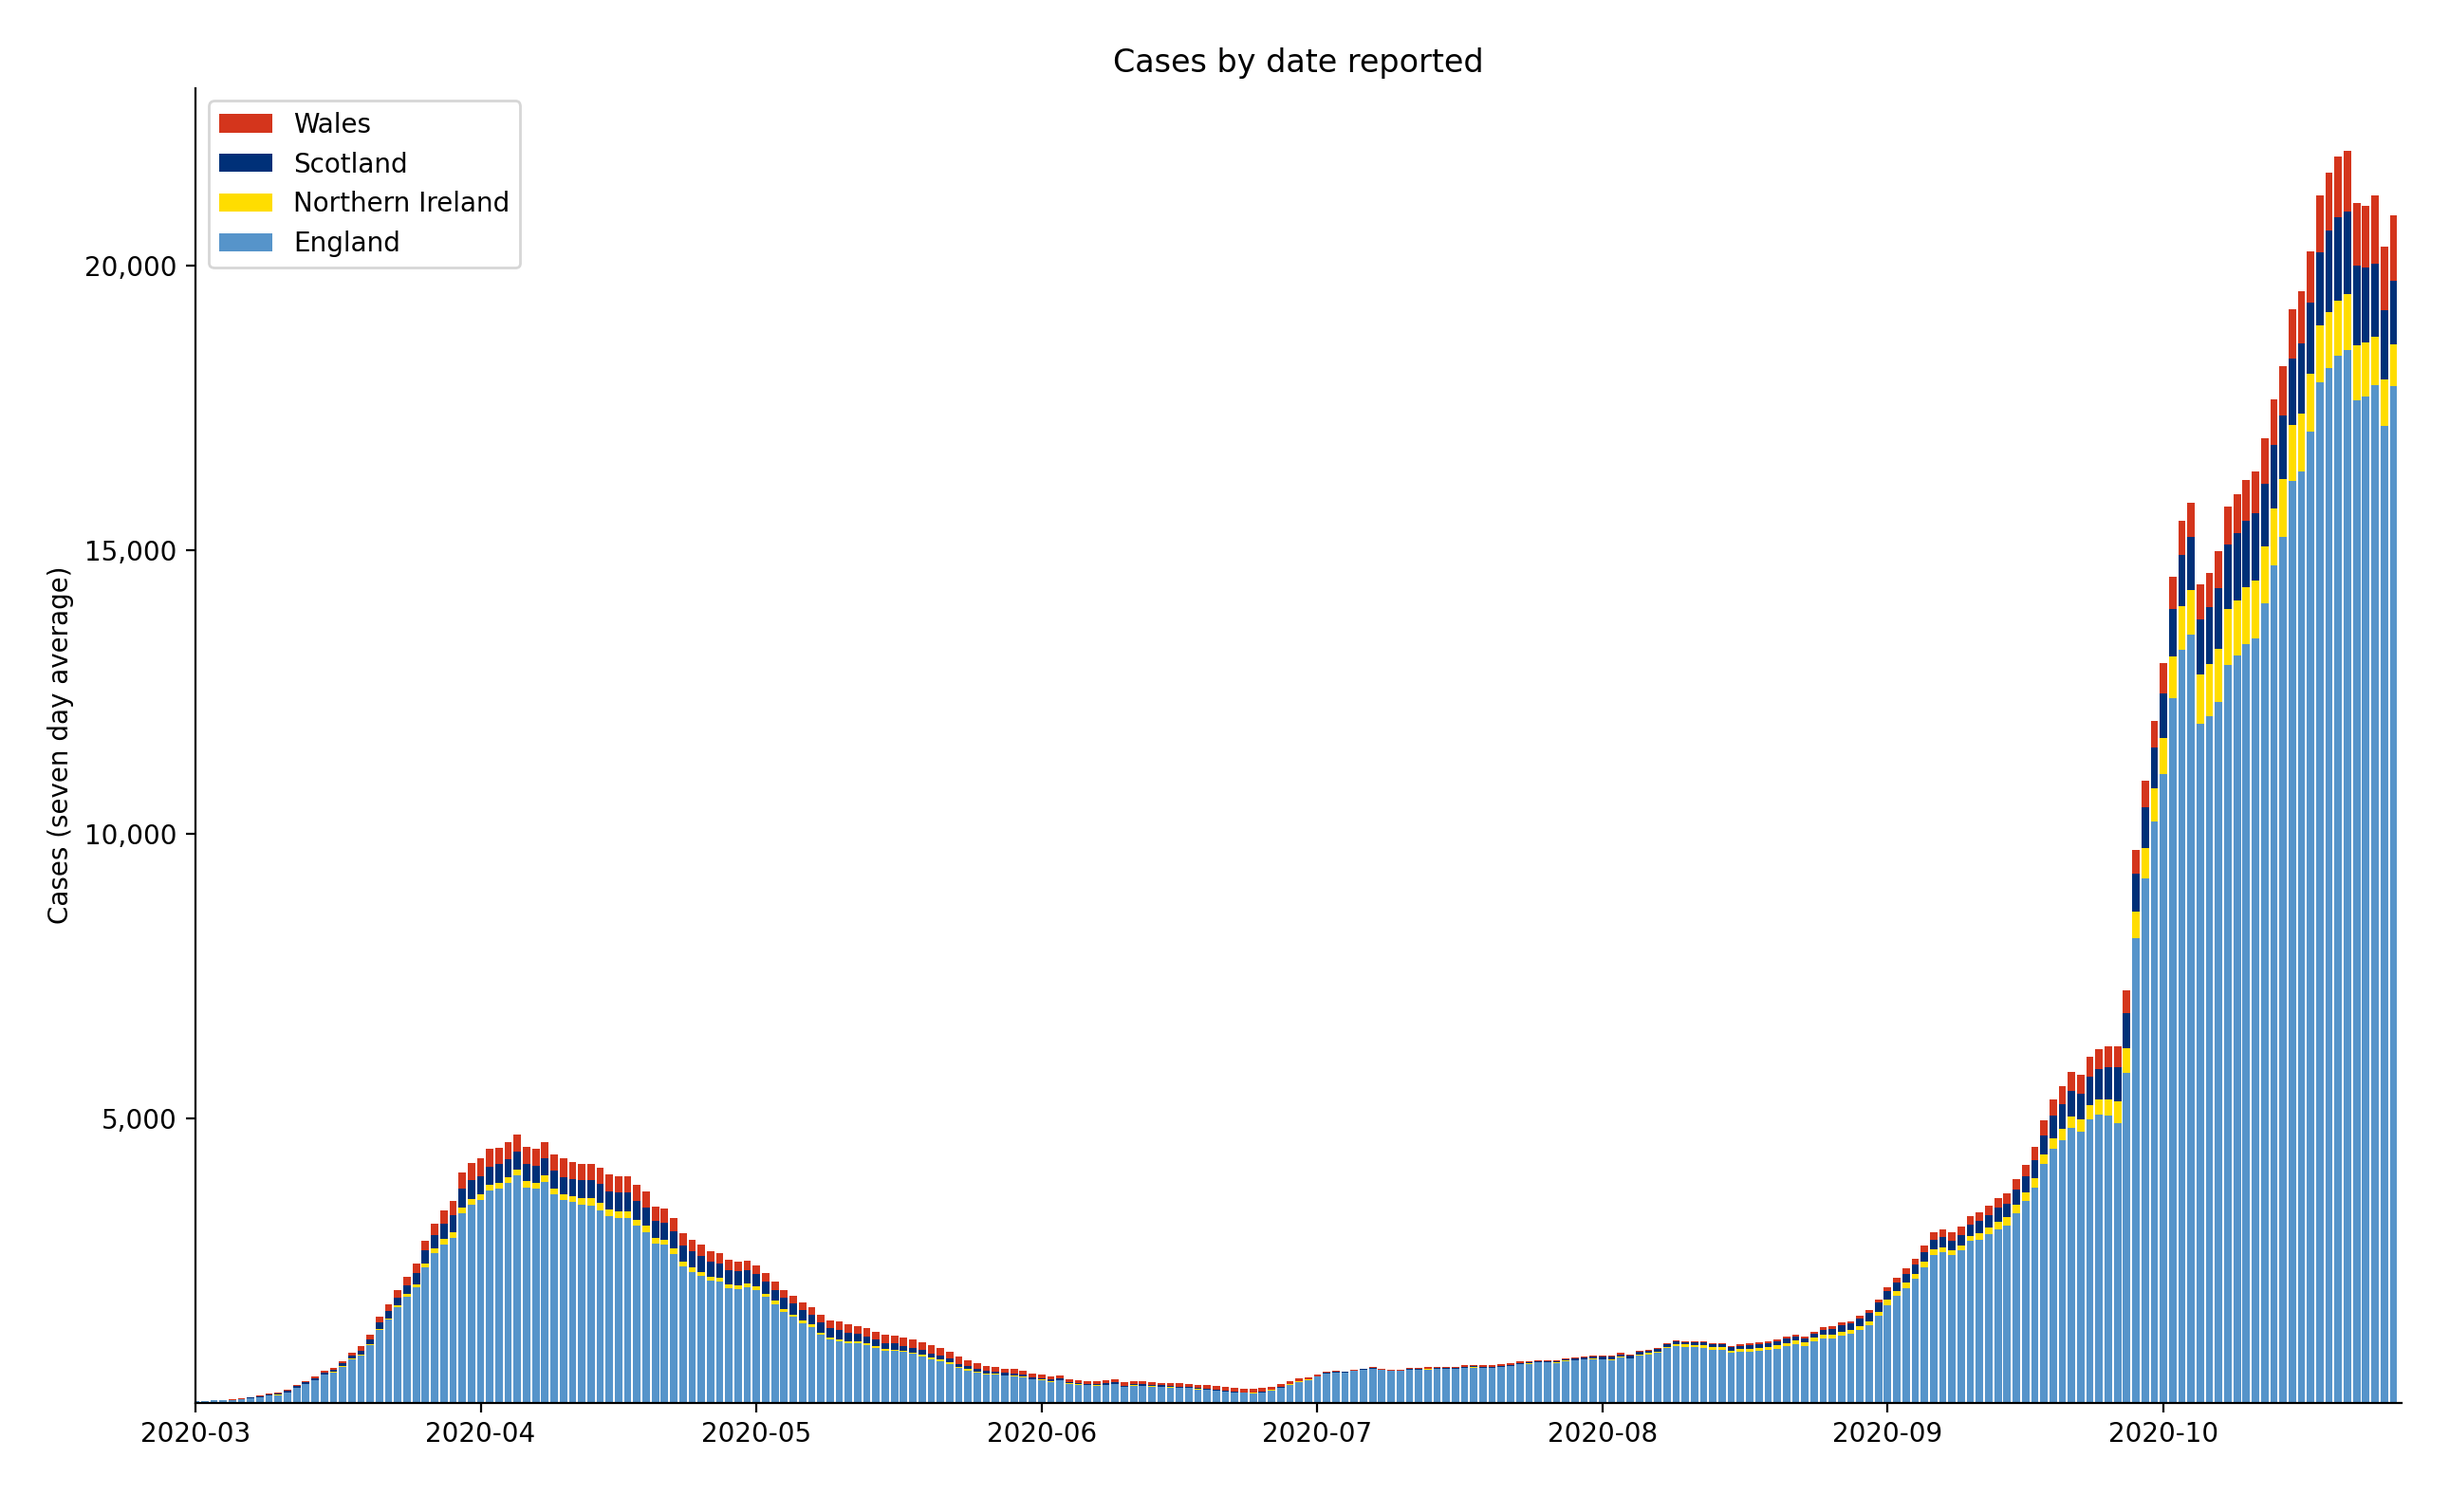
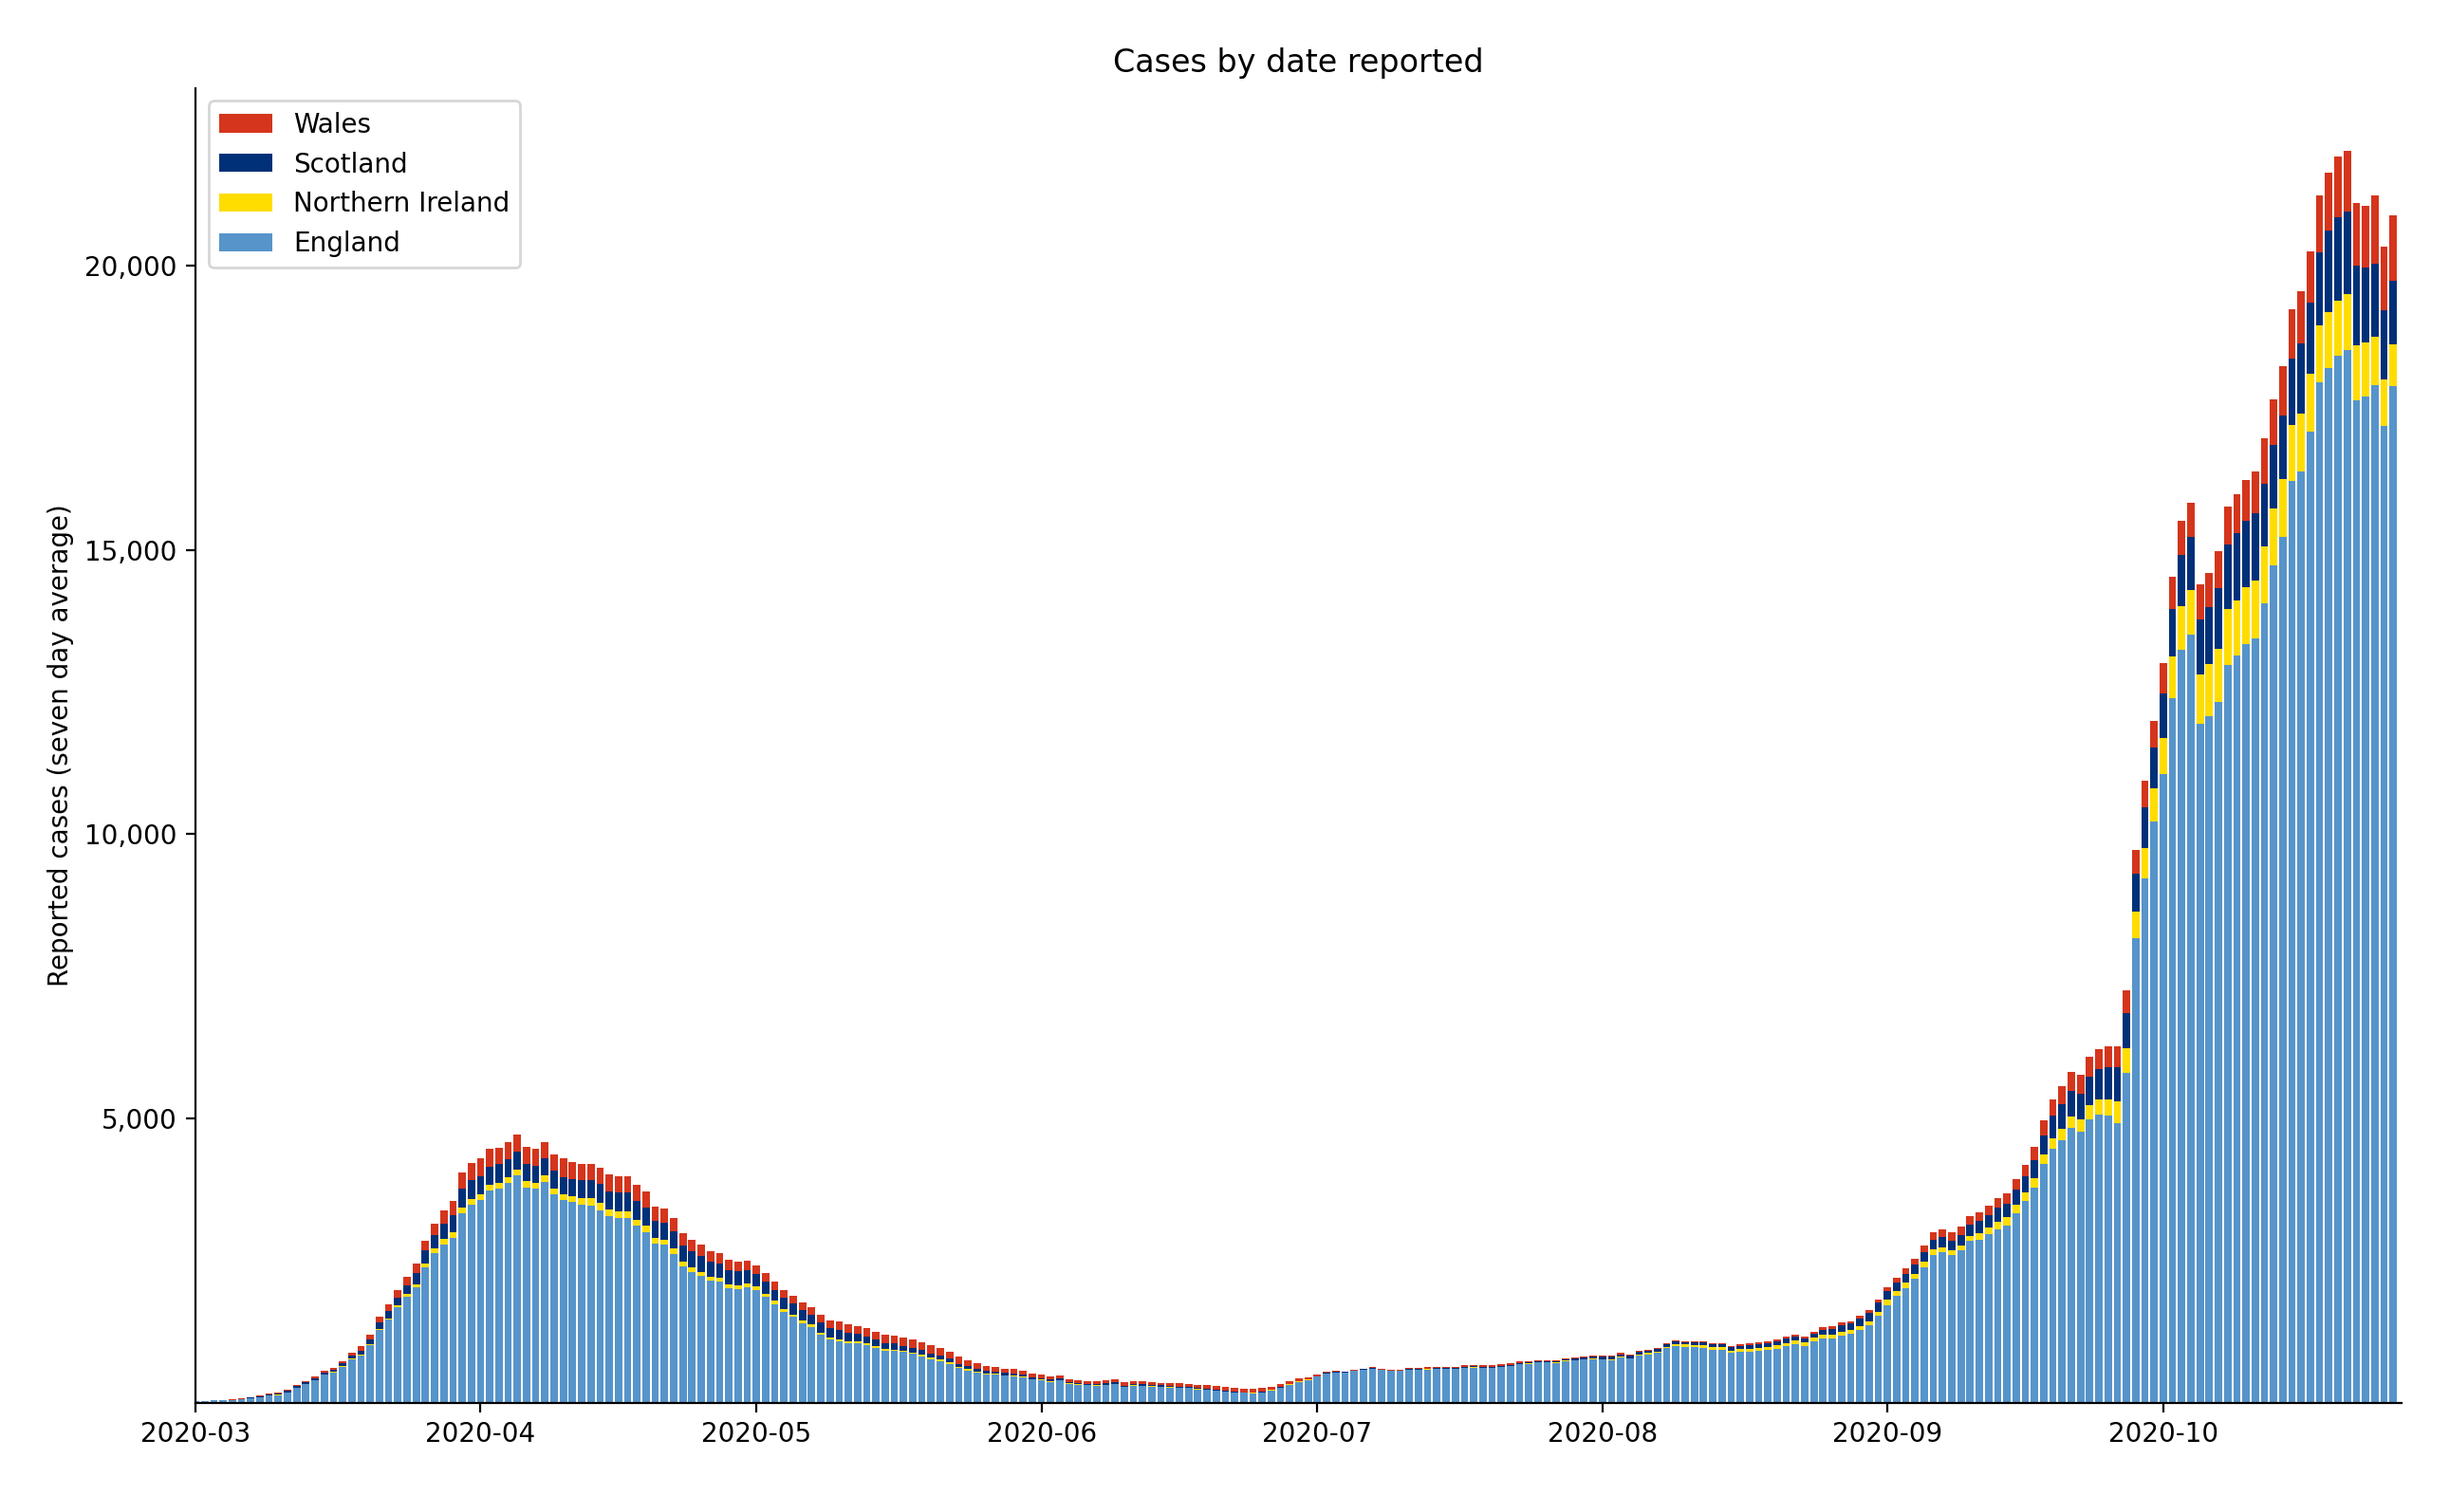
refactor stacked and add cumulative plot

Changed region(s): [[0.0, 0.342, 0.031, 0.5286], [0.0, 0.5596, 0.031, 0.6529]]

diff --git a/index.html b/index.html
@@ -38,6 +38,8 @@
         <div class="image"><img src="https://raw.githubusercontent.com/carlinmack/covid-graphs/main/plots/Stacked-Nation-Avg.png" /></div>
         <div class="image"><img src="https://raw.githubusercontent.com/carlinmack/covid-graphs/main/plots/Stacked-Nation-Per-Capita.png" /></div>
         <div class="image"><img src="https://raw.githubusercontent.com/carlinmack/covid-graphs/main/plots/Stacked-Nation-Per-Capita-Avg.png"/></div>
+        <div class="image"><img src="https://raw.githubusercontent.com/carlinmack/covid-graphs/main/plots/Stacked-Nation-Cumulative.png"/></div>
+        <div class="image"><img src="https://raw.githubusercontent.com/carlinmack/covid-graphs/main/plots/Stacked-Nation-Cumulative-Per-Capita.png"/></div>
         <div class="image"><img src="https://raw.githubusercontent.com/carlinmack/covid-graphs/main/plots/testsCasesHeatMap.png" /></div>
         <div class="image"><img src="https://raw.githubusercontent.com/carlinmack/covid-graphs/main/plots/testsCasesHeatMap-Nation.png" /></div>
       </div>

diff --git a/plot.py b/plot.py
@@ -360,10 +360,12 @@ def nationPlot(dataDir="data/", plotsDir="plots/", avg=True):
 
     savePlot(figname)
 
-def nationReportedPlot(dataDir="data/", plotsDir="plots/", avg=True):    
+
+def nationReportedPlot(dataDir="data/", plotsDir="plots/", avg=True):
     nations = ["England", "Northern Ireland", "Scotland", "Wales"]
     colors = ["#5694CA", "#FFDD00", "#003078", "#D4351C"]
-    populations = [56286961,1893667,5463300,3152879]
+    populations = [56286961, 1893667, 5463300, 3152879]
+    totalPopulation = sum(populations)
 
     nationsReported = []
     nationDates = []
@@ -390,7 +392,7 @@ def nationReportedPlot(dataDir="data/", plotsDir="plots/", avg=True):
             next(file)
             reader = csv.reader(file, delimiter=",")
             reportedData = [[line[0], int(line[1])] for line in reader]
-            
+
         reportedData = np.array(reportedData)
         testDates = reportedData[:, 0]
         testDates = [dt.strptime(x, "%Y-%m-%d") for x in testDates]
@@ -399,86 +401,116 @@ def nationReportedPlot(dataDir="data/", plotsDir="plots/", avg=True):
         nationsReported.append(reportedData)
         nationDates.append(testDates)
 
-    figname = plotsDir + "Stacked-Nation"
-    if avg:
-        figname += "-Avg"
-    plt.figure()
-    _, ax = plt.subplots()
-    ax.set_title("Cases by date reported")
+    fignameSuffix = ["", "-Per-Capita"]
+    titleSuffix = ["", ", per capita"]
+    yLabels = ["UK Population", "nation"]
+    perCapita = [0, 1]
 
-    bottom = [0] * len(nationsReported[0])
-
-    for j, nation in enumerate(nations):
-        reportedData = nationsReported[j]
-
+    for i in range(2):
+        figname = plotsDir + "Stacked-Nation" + fignameSuffix[i]
         if avg:
-            reportedData = n_day_avg(reportedData, 7)
+            figname += "-Avg"
+        plt.figure()
+        _, ax = plt.subplots()
+        ax.set_title("Cases by date reported" + titleSuffix[i])
 
-        ax.bar(nationDates[j], reportedData, color=colors[j], label=nation, bottom=bottom)
+        bottom = [0] * len(nationsReported[0])
 
-        bottom = list(map(add, reportedData, bottom)) 
+        for j, nation in enumerate(nations):
+            reportedData = nationsReported[j]
 
-    ax.xaxis_date()
-    ax.set_xlim(
-        left=dt.strptime("2020-03-01", "%Y-%m-%d"), right=today,
-    )
-    handles, labels = ax.get_legend_handles_labels()
-    ax.legend(reversed(handles), reversed(labels))
+            if avg:
+                reportedData = n_day_avg(reportedData, 7)
 
-    yLabel = "Cases"
-    if avg:
-        yLabel += " (seven day average)"
-    ax.set_ylabel(yLabel)
-    
-    ax.yaxis.set_major_formatter(tkr.FuncFormatter(threeFigureFormatter))
+            if perCapita[i]:
+                reportedData = [x / populations[j] * 100 for x in reportedData]
 
-    removeSpines(ax)
+            ax.bar(
+                nationDates[j],
+                reportedData,
+                color=colors[j],
+                label=nation,
+                bottom=bottom,
+            )
 
-    plt.gcf().set_size_inches(15, 9)
+            bottom = list(map(add, reportedData, bottom))
 
-    savePlot(figname)
+        ax.xaxis_date()
+        ax.set_xlim(
+            left=dt.strptime("2020-03-01", "%Y-%m-%d"), right=today,
+        )
+        handles, labels = ax.get_legend_handles_labels()
+        ax.legend(reversed(handles), reversed(labels))
 
-    # Per Capita
-
-    figname = plotsDir + "Stacked-Nation-Per-Capita"
-    if avg:
-        figname += "-Avg"
-    plt.figure()
-    _, ax = plt.subplots()
-    ax.set_title("Cases by date reported, per capita")
-
-    bottom = [0] * len(nationsReported[0])
-
-    for j, nation in enumerate(nations):
-        reportedData = nationsReported[j]
-
+        if perCapita[i]:
+            yLabel = "Percent cases per nation"
+        else:
+            yLabel = "Reported cases"
+        
         if avg:
-            reportedData = n_day_avg(reportedData, 7)
+            yLabel += " (seven day average)"
+        ax.set_ylabel(yLabel)
 
-        reportedData = [x / populations[j] * 100 for x in reportedData]
+        if perCapita[i]:
+            ax.yaxis.set_major_formatter(tkr.PercentFormatter(decimals=2))
+        else:
+            ax.yaxis.set_major_formatter(tkr.FuncFormatter(threeFigureFormatter))
 
-        ax.bar(nationDates[j], reportedData, color=colors[j], label=nation, bottom=bottom)
+        removeSpines(ax)
 
-        bottom = list(map(add, reportedData, bottom)) 
+        plt.gcf().set_size_inches(15, 9)
 
-    ax.xaxis_date()
-    ax.set_xlim(
-        left=dt.strptime("2020-03-01", "%Y-%m-%d"), right=today,
-    )
-    handles, labels = ax.get_legend_handles_labels()
-    ax.legend(reversed(handles), reversed(labels))
+        savePlot(figname)
 
-    ax.yaxis.set_major_formatter(tkr.PercentFormatter(decimals=2))
-    yLabel = "Cases as a percentage of population"
-    if avg:
-        yLabel += " (seven day average)"
-    ax.set_ylabel(yLabel)
+    # Cumulative
 
-    removeSpines(ax)
+    if not avg:
+        for i in range(2):
+            figname = plotsDir + "Stacked-Nation-Cumulative" + fignameSuffix[i]
+            plt.figure()
+            _, ax = plt.subplots()
+            ax.set_title("Cumulative cases by date reported" + titleSuffix[i])
 
-    plt.gcf().set_size_inches(15, 9)
+            bottom = [0] * len(nationsReported[0])
 
-    savePlot(figname)
+            for j, nation in enumerate(nations):
+                reportedData = nationsReported[j]
+                if perCapita[i]:
+                    reportedData = [x / populations[j] * 100 for x in reportedData]
+                else:
+                    reportedData = [x / totalPopulation * 100 for x in reportedData]
+                # reversed cumulative sum
+                reportedData = np.cumsum(reportedData[::-1])[::-1]
+
+                ax.bar(
+                    nationDates[j],
+                    reportedData,
+                    color=colors[j],
+                    label=nation,
+                    bottom=bottom,
+                )
+
+                bottom = list(map(add, reportedData, bottom))
+
+            ax.xaxis_date()
+            ax.set_xlim(
+                left=dt.strptime("2020-03-01", "%Y-%m-%d"), right=today,
+            )
+            handles, labels = ax.get_legend_handles_labels()
+            ax.legend(reversed(handles), reversed(labels))
+
+            ax.yaxis.set_major_formatter(tkr.PercentFormatter(decimals=2))
+            yLabel = "Percent cases per " + yLabels[i]
+            if avg:
+                yLabel += " (seven day average)"
+            ax.set_ylabel(yLabel)
+
+            removeSpines(ax)
+            showGrid(ax, "y")
+
+            plt.gcf().set_size_inches(15, 9)
+
+            savePlot(figname)
 
 
 def heatMapPlot(dataDir="data/", plotsDir="plots/"):
@@ -550,7 +582,7 @@ def heatMapPlot(dataDir="data/", plotsDir="plots/"):
         )
         plt.colorbar(hm, ax=ax, format=threeFigureFormatter, aspect=10)
 
-        removeSpines(ax,all=True)
+        removeSpines(ax, all=True)
 
     fig.suptitle("Heatmap of number of tests/cases per day")
     plt.gcf().set_size_inches(10, 5)
@@ -685,6 +717,11 @@ def removeSpines(ax, all=False):
     if all:
         ax.spines["bottom"].set_visible(False)
         ax.spines["left"].set_visible(False)
+
+
+def showGrid(ax, axis):
+    ax.grid(color="#ccc", which="major", axis=axis, linestyle="solid")
+    ax.set_axisbelow(True)
 
 
 def n_day_avg(xs, n=7):

diff --git a/plots/README.md b/plots/README.md
@@ -22,6 +22,10 @@
 
 ![image](Stacked-Nation-Per-Capita-Avg.png)
 
+![image](Stacked-Nation-Cumulative.png)
+
+![image](Stacked-Nation-Cumulative-Per-Capita-Avg.png)
+
 ![image](testsCasesHeatMap.png)
 
 ![image](testsCasesHeatMap-Nation.png)
